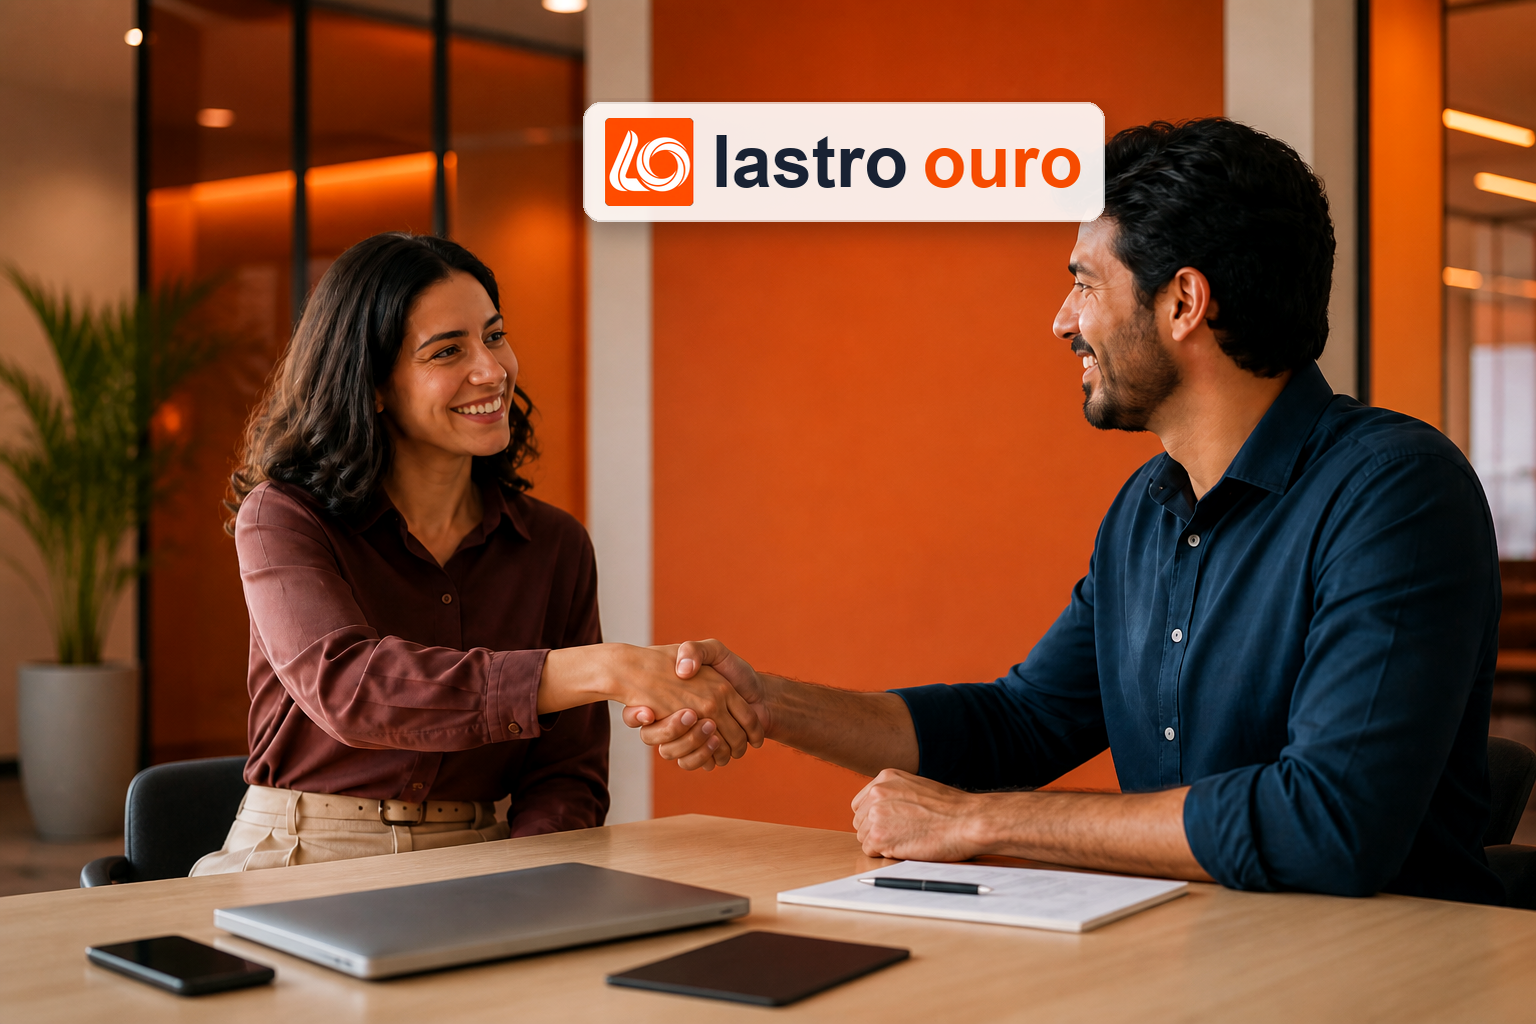
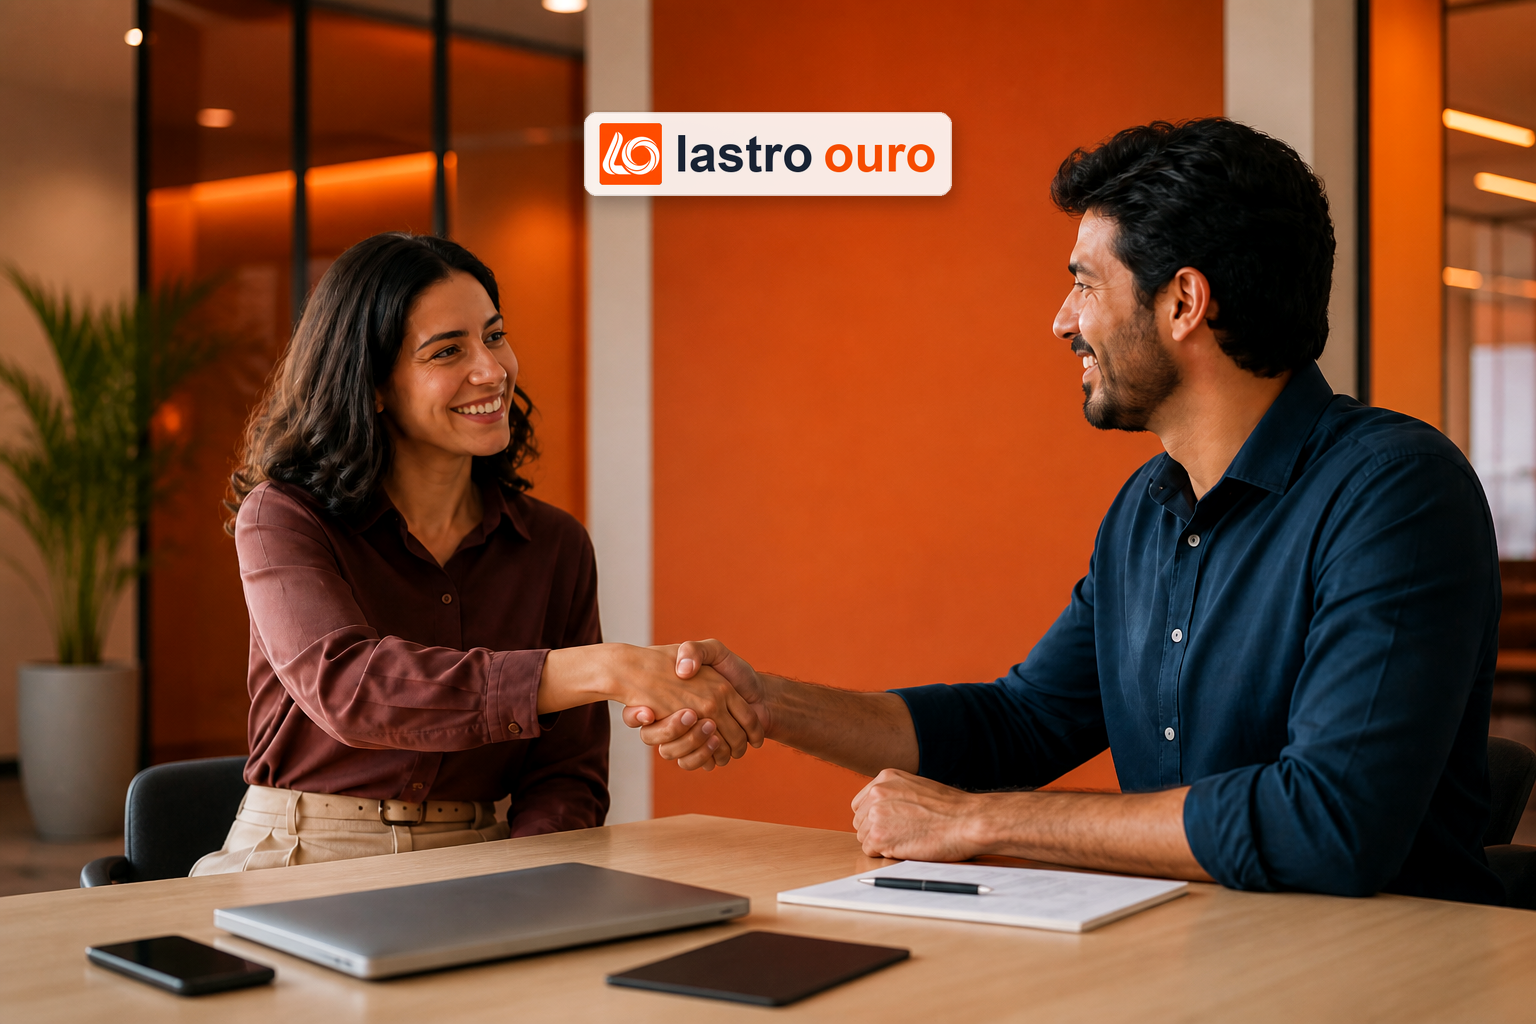
Hero: placa da marca menor e centralizada.

Changed region(s): [[0.375, 0.0938, 0.7188, 0.25]]

diff --git a/index.html b/index.html
@@ -1228,7 +1228,7 @@
         </div>
         <div class="hero-visual reveal" aria-label="Negociação comercial">
           <figure>
-            <img src="assets/photo-hero.png?v=2" alt="Duas pessoas em mesa de madeira conversando e apertando as mãos" />
+            <img src="assets/photo-hero.png?v=3" alt="Duas pessoas em mesa de madeira conversando e apertando as mãos" />
           </figure>
         </div>
       </div>
